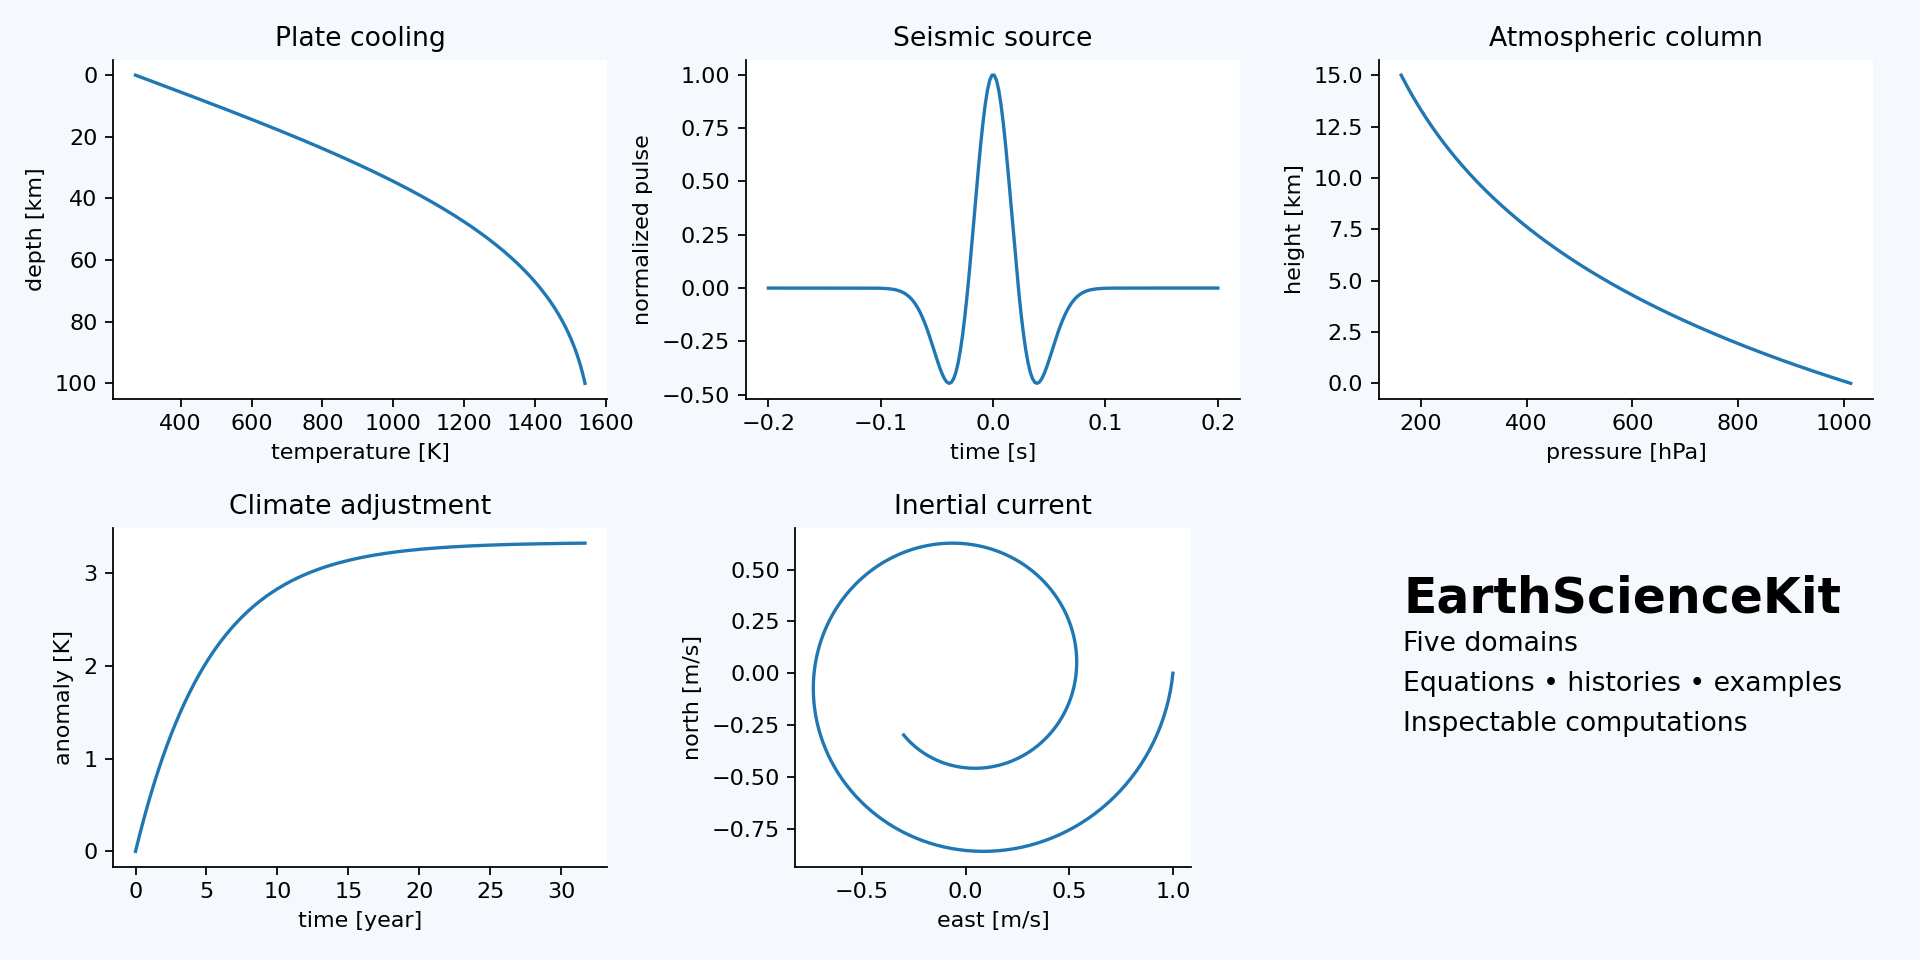
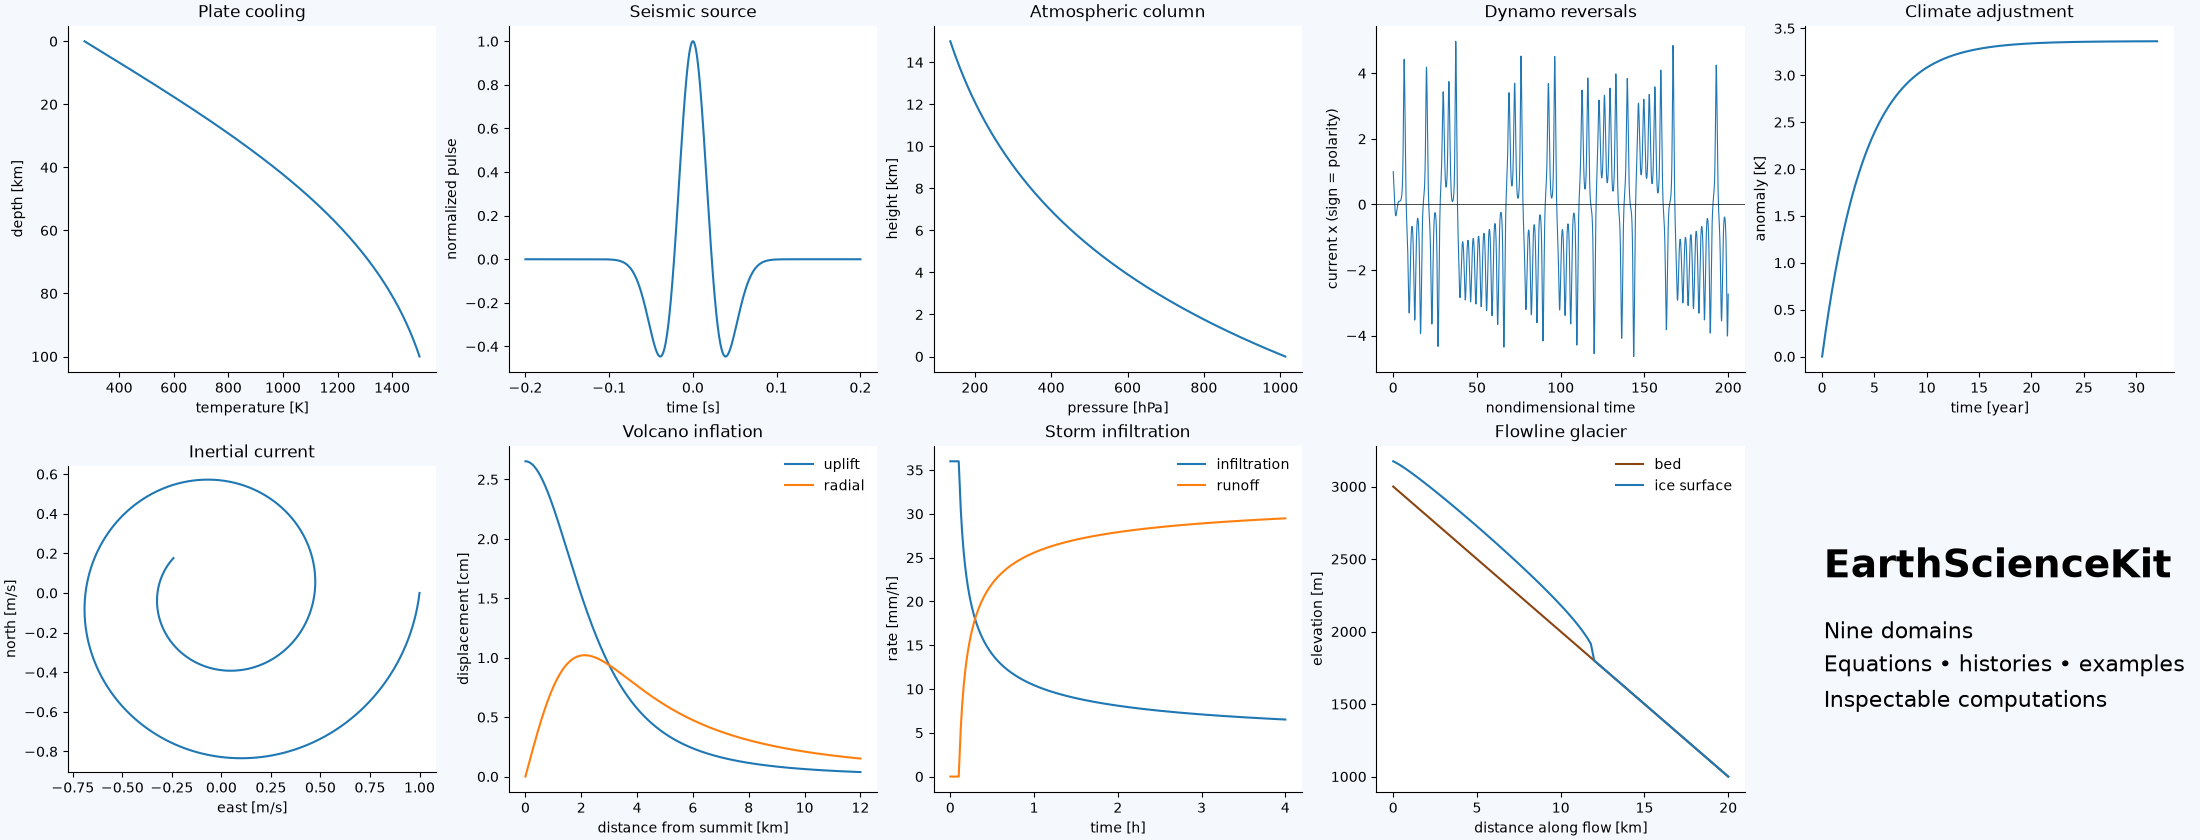
Regenerate the docs hero figure with one panel per domain
Adds docs/make_readme_figure.py, which draws all nine domains.

diff --git a/docs/make_readme_figure.py b/docs/make_readme_figure.py
@@ -1,0 +1,108 @@
+"""Regenerate the README hero figure: python docs/make_readme_figure.py
+
+Writes docs/source/_static/images/readme_hero.png, one panel per domain,
+which the docs landing page and the Open Graph card embed.
+"""
+
+from pathlib import Path
+
+import matplotlib
+
+matplotlib.use("Agg")
+import matplotlib.pyplot as plt
+import numpy as np
+
+from earthsciencekit.atmosphere import barometric_pressure
+from earthsciencekit.climate import simulate_one_box
+from earthsciencekit.geophysics import simulate_rikitake_dynamo
+from earthsciencekit.glaciology import simulate_flowline_glacier
+from earthsciencekit.hydrology import simulate_infiltration
+from earthsciencekit.oceanography import simulate_inertial_current
+from earthsciencekit.plate_tectonics import halfspace_temperature
+from earthsciencekit.seismology import ricker_wavelet
+from earthsciencekit.volcanology import mogi_displacement
+
+OUT = Path(__file__).parent / "source" / "_static" / "images" / "readme_hero.png"
+YEAR = 365.25 * 86400.0
+BACKGROUND = "#f5f8fc"
+
+fig, axes = plt.subplots(2, 5, figsize=(22, 8.4), constrained_layout=True, facecolor=BACKGROUND)
+plate, seismic, column, dynamo, climate, current, dome, soil, glacier, label = axes.ravel()
+
+# Half-space cooling of 50 Myr old oceanic lithosphere.
+depth = np.linspace(0, 100e3, 201)
+plate.plot(halfspace_temperature(depth, 50e6 * YEAR, 1e-6, 273.0, 1600.0), depth / 1e3)
+plate.invert_yaxis()
+plate.set(title="Plate cooling", xlabel="temperature [K]", ylabel="depth [km]")
+
+# A 10 Hz Ricker source pulse.
+time = np.linspace(-0.2, 0.2, 801)
+seismic.plot(time, ricker_wavelet(time, 10.0))
+seismic.set(title="Seismic source", xlabel="time [s]", ylabel="normalized pulse")
+
+# An isothermal hydrostatic column.
+height = np.linspace(0, 15e3, 301)
+column.plot(barometric_pressure(101325.0, height, 255.0, 9.80665) / 100, height / 1e3)
+column.set(title="Atmospheric column", xlabel="pressure [hPa]", ylabel="height [km]")
+
+# Rikitake's two-disc dynamo reversing its polarity.
+time = np.linspace(0, 200, 4001)
+dynamo.plot(time, simulate_rikitake_dynamo(1.0, 2.0, 1.0, time).values[:, 0], lw=0.8)
+dynamo.axhline(0, color="k", lw=0.5)
+dynamo.set(title="Dynamo reversals", xlabel="nondimensional time", ylabel="current x (sign = polarity)")
+
+# A one-box energy balance adjusting to doubled CO2.
+time = np.linspace(0, 32 * YEAR, 401)
+warming = simulate_one_box(3.7, 1.1, 1.4e8, time)
+climate.plot(time / YEAR, warming.values[:, 0])
+climate.set(title="Climate adjustment", xlabel="time [year]", ylabel="anomaly [K]")
+
+# A damped inertial current turning clockwise.
+time = np.linspace(0, 1.6 * 2 * np.pi / 1e-4, 2001)
+east, north = simulate_inertial_current(1e-4, time, damping=1.2e-5).values.T
+current.plot(east, north)
+current.set_aspect("equal")
+current.set(title="Inertial current", xlabel="east [m/s]", ylabel="north [m/s]")
+
+# Mogi uplift above a magma chamber inflating by 1e6 m^3 at 3 km depth.
+distance = np.linspace(0, 12e3, 601)
+radial, vertical = mogi_displacement(distance, 3000.0, 1e6, 0.25).T
+dome.plot(distance / 1e3, vertical * 100, label="uplift")
+dome.plot(distance / 1e3, radial * 100, label="radial")
+dome.legend(frameon=False)
+dome.set(title="Volcano inflation", xlabel="distance from summit [km]", ylabel="displacement [cm]")
+
+# Green-Ampt infiltration of 36 mm/h rain on a loam: the soil ponds and the excess runs off.
+time = np.linspace(0, 4 * 3600, 481)
+infiltration, runoff = simulate_infiltration(1e-6, 0.11, 0.3, 1e-5, time).values[:, 1:].T
+soil.plot(time / 3600, infiltration * 3.6e6, label="infiltration")
+soil.plot(time / 3600, runoff * 3.6e6, label="runoff")
+soil.legend(frameon=False)
+soil.set(title="Storm infiltration", xlabel="time [h]", ylabel="rate [mm/h]")
+
+# A shallow-ice valley glacier grown to steady state on a sloping bed.
+x = np.arange(0, 20e3 + 1, 200.0)
+bed = 3000 - 0.1 * x
+grown = simulate_flowline_glacier(bed, 200.0, 2600.0, 0.007 / YEAR, np.linspace(0, 1500, 76) * YEAR)
+glacier.plot(x / 1e3, bed, color="saddlebrown", label="bed")
+glacier.plot(x / 1e3, bed + grown.values[-1, 2:], label="ice surface")
+glacier.legend(frameon=False)
+glacier.set(title="Flowline glacier", xlabel="distance along flow [km]", ylabel="elevation [m]")
+
+for ax in axes.ravel()[:-1]:
+    ax.spines[["top", "right"]].set_visible(False)
+
+label.axis("off")
+label.text(0.05, 0.62, "EarthScienceKit", fontsize=28, fontweight="bold", transform=label.transAxes)
+label.text(
+    0.05,
+    0.52,
+    "Nine domains\nEquations • histories • examples\nInspectable computations",
+    fontsize=16,
+    linespacing=1.6,
+    va="top",
+    transform=label.transAxes,
+)
+
+fig.savefig(OUT, dpi=100, facecolor=BACKGROUND)
+print(f"wrote {OUT}")

diff --git a/docs/source/index.rst b/docs/source/index.rst
@@ -9,7 +9,7 @@ its history, run its examples and inspect its API. NumPy and SciPy provide the
 numerical foundations; this package connects them to Earth-system concepts.
 
 .. image:: _static/images/readme_hero.png
-   :alt: Plate cooling, seismic pulse, atmospheric pressure, climate warming and inertial current
+   :alt: Plate cooling, seismic pulse, atmospheric pressure, dynamo reversals, climate warming, inertial current, volcano inflation, storm infiltration and a flowline glacier
    :width: 100%
 
 Browse by domain
